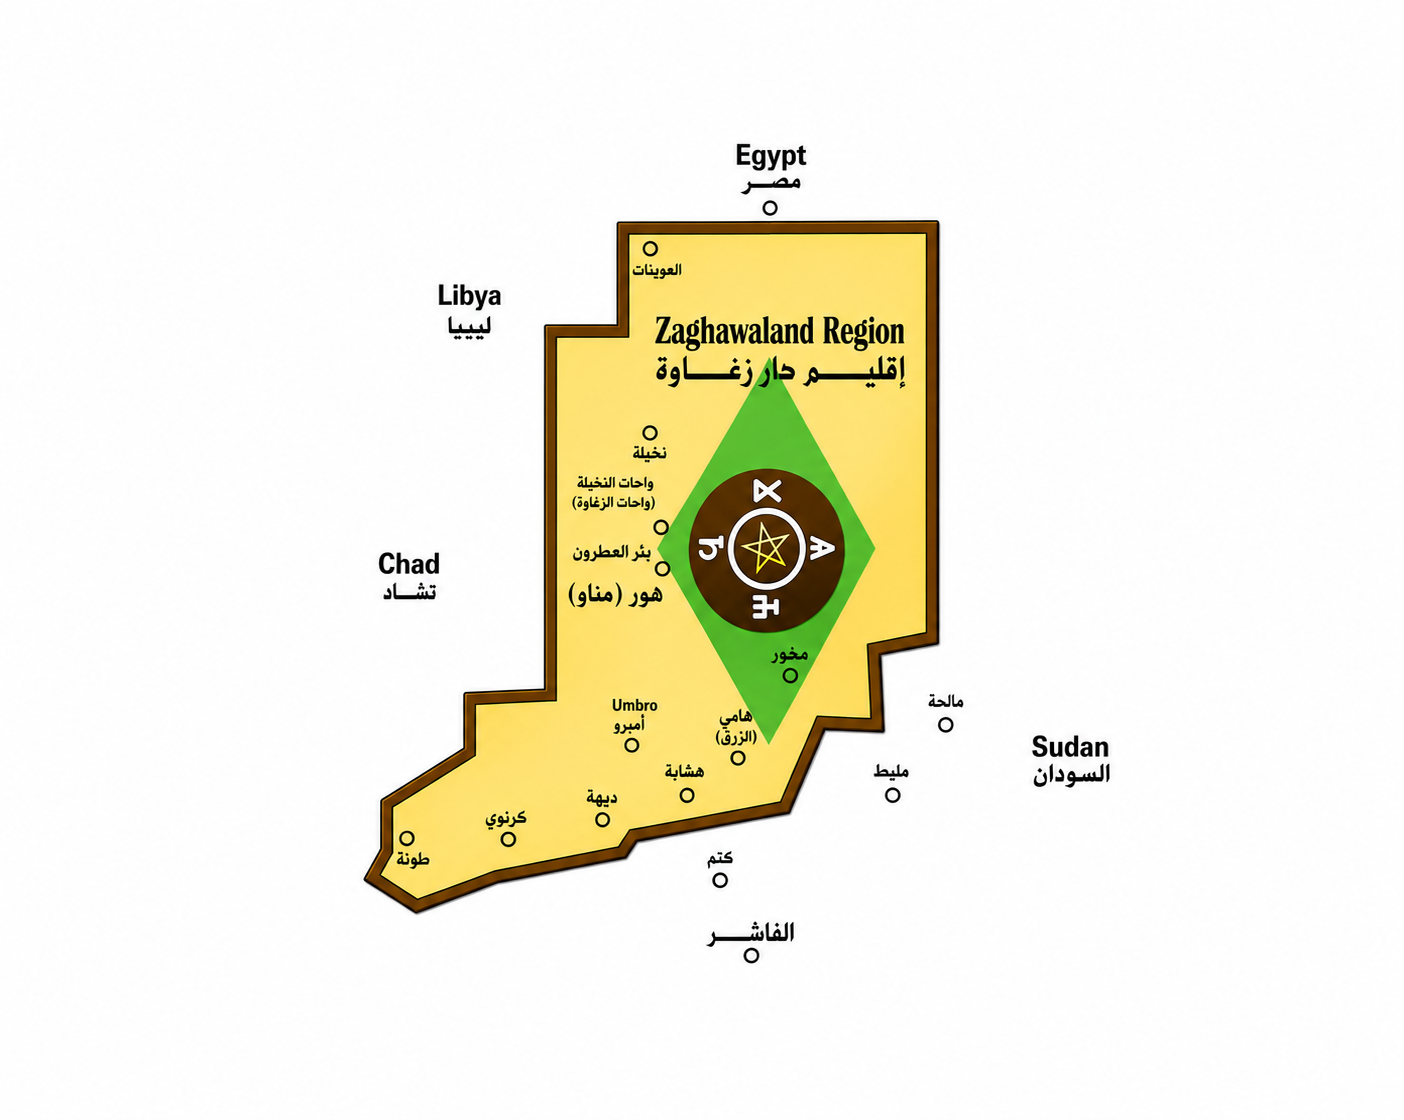
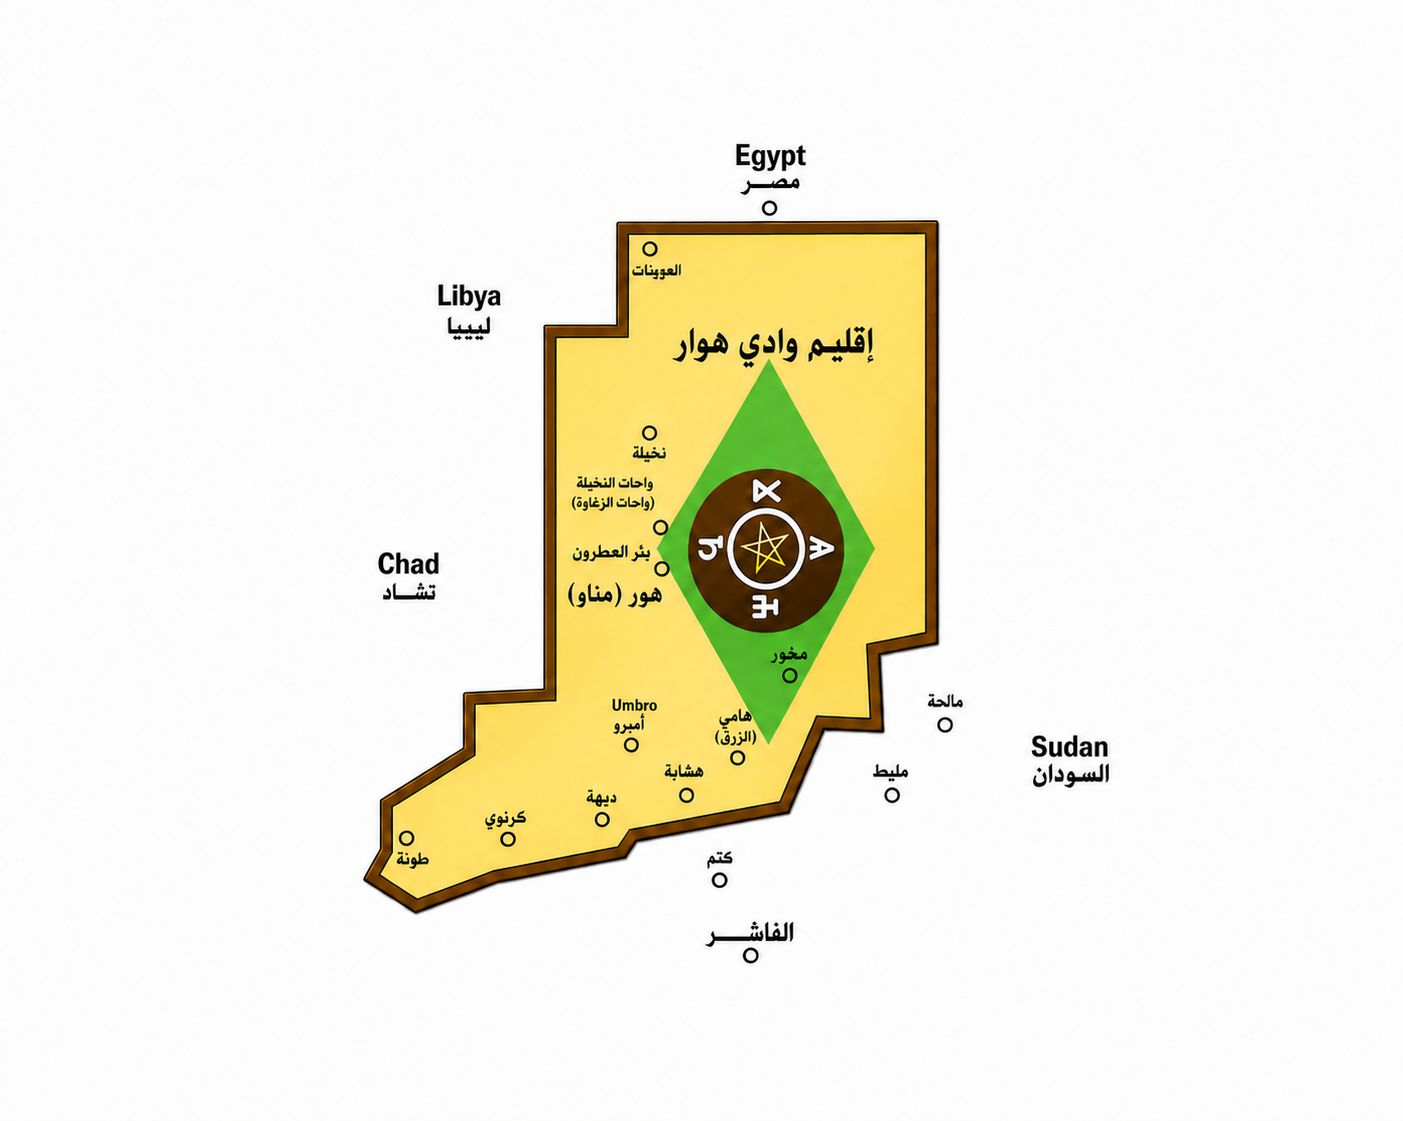
add the map change

diff --git a/frontend/src/components/Homepage.jsx b/frontend/src/components/Homepage.jsx
@@ -435,7 +435,7 @@ const Homepage = () => {
     <div className="h-64 md:h-auto bg-gray-200 order-2 md:order-1">
       <img 
         src="/images/reginal.png" 
-        alt="إقليم دار زغاوة" 
+        alt="إقليم وادي هور" 
         className="w-full h-full object-cover" 
       />
     </div>
@@ -443,10 +443,10 @@ const Homepage = () => {
     {/* Content - Right Side */}
     <div className="p-6 md:p-8 order-1 md:order-2">
       <h3 className="text-xl font-bold text-gray-800 mb-4 text-right" style={{ direction: 'rtl' }}>
-        إقليم دار زغاوة
+        إقليم وادي هور
       </h3>
       <p className="text-gray-700 leading-relaxed text-justify" style={{ direction: 'rtl' }}>
-        هو تصور ثقافي وسياسي يهدف إلى إحياء الهوية التاريخية والجغرافية لشعب الزغاوة في السودان، وجعله إقليمًا إداريًا وتنمويًا يُعرف بـ "إقليم دار زغاوة (إقليم بيربي)".
+        هو تصور ثقافي وسياسي يهدف إلى إحياء الهوية التاريخية والجغرافية لشعب الزغاوة في السودان، وجعله إقليمًا إداريًا وتنمويًا يُعرف بـ "إقليم وادي هور (إقليم بيربي)".
         يستند هذا التصور إلى الإرث الحضاري العريق لوادي هور وممالك الزغاوة القديمة، وإلى رغبة الشعب في حماية اللغة والتراث من الاندثار. تعتبر "حاكورة" تاريخية وموطناً رئيسياً لقبائل الزغاوة الأفريقية، وتتميز بخصائص جغرافية وسياسية وثقافية.
       </p>
     </div>
@@ -506,7 +506,7 @@ const Homepage = () => {
 <div className="bg-white rounded-xl shadow-lg overflow-hidden mb-8 border border-gray-200">
   {/* Map Header */}
   <div className="bg-[#d78525] px-6 py-4">
-    <p className="text-white text-right text-sm" style={{ direction: 'rtl' }}>خريطة توضح موقع إقليم دار زغاوة (إقليم بيربي) في السودان</p>
+    <p className="text-white text-right text-sm" style={{ direction: 'rtl' }}>خريطة توضح موقع إقليم وادي هور  (إقليم بيربي) في السودان</p>
   </div>
   
   {/* Map Content */}
@@ -517,7 +517,7 @@ const Homepage = () => {
       <div className="overflow-hidden bg-gray-100 flex items-center justify-center min-h-[400px]">
         <img 
           src="/images/map.jpg" 
-          alt="خريطة إقليم دار زغاوة" 
+          alt="خريطة إقليم وادي هور" 
           className="w-full h-full object-cover"
         />
       </div>